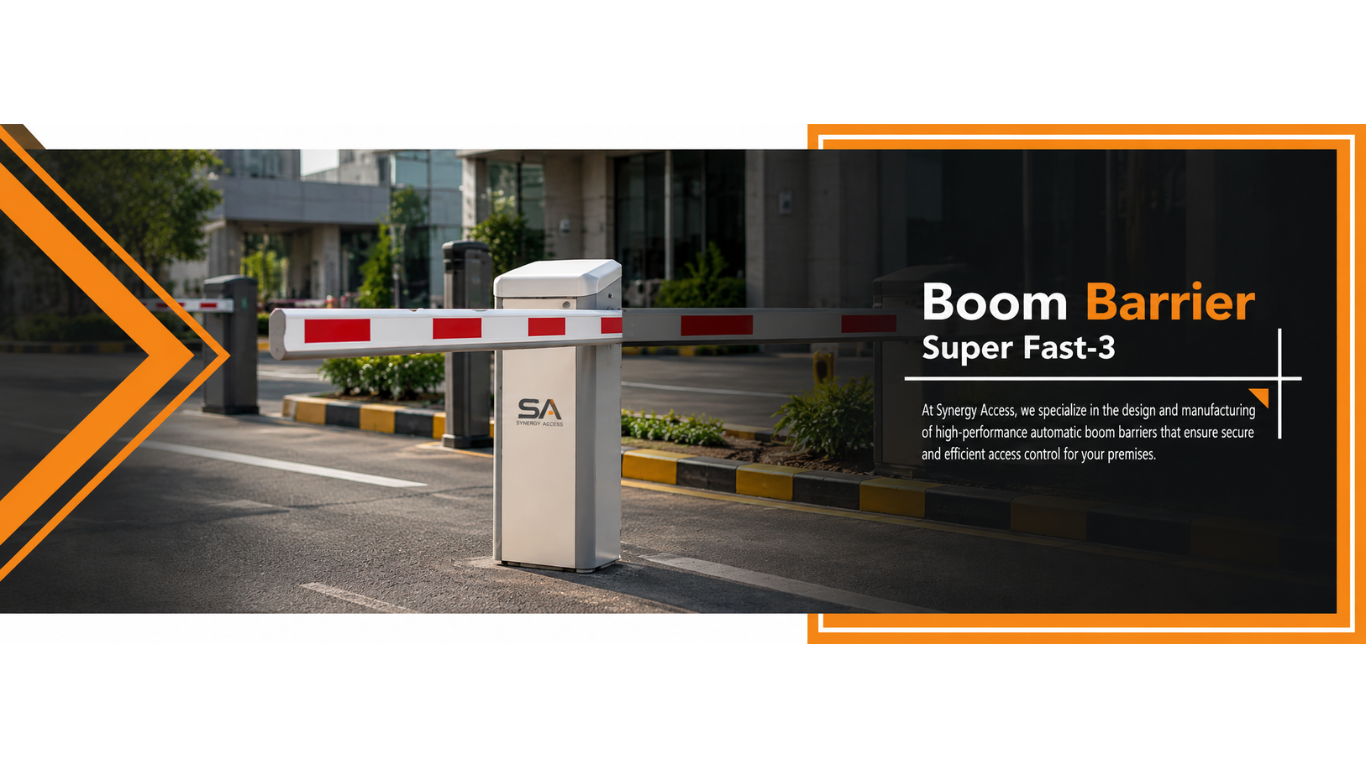
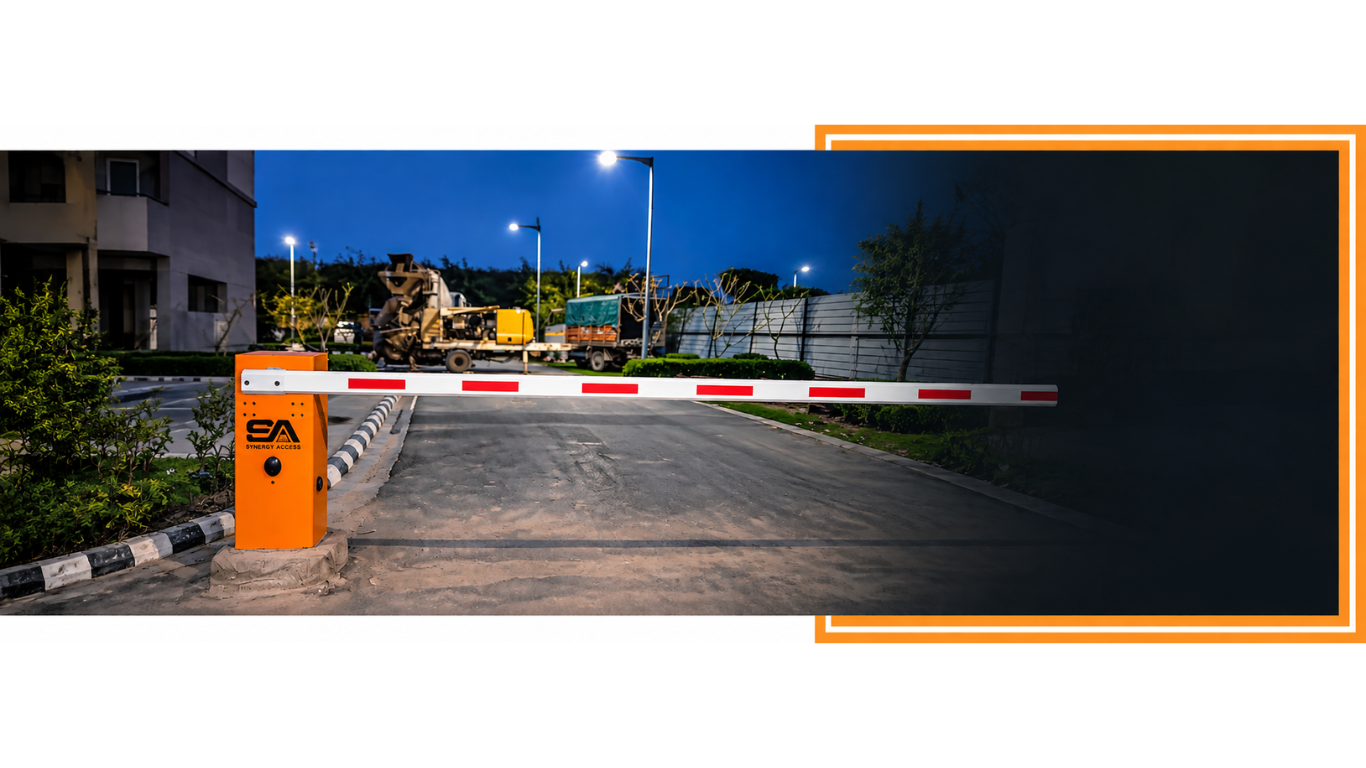
Initial commit

diff --git a/src/app/page.tsx b/src/app/page.tsx
@@ -14,10 +14,11 @@ const images = {
   boom1: '/assets/barrier.png',
   boom2: '/assets/barrier2.png',
   per: '/assets/peri.jpg',
+  Monitor: '/assets/Monitor.jpg',
   boom: '/assets/Boom-Barrier.jpeg',
   Pedest: '/assets/pades.jpg',
-  park: '/assets/parking.jpg',
-  Metal: '/assets/metal.jpg',
+  park: '/assets/Parking Management System-1.jpeg',
+  Metal: '/assets/Metal Dectector.jpg',
   Access: '/assets/control.jpg',
   Best: '/assets/boombarr.jpg',
   boom3: '/assets/boom3.jpeg',
@@ -63,7 +64,7 @@ const productCategories = [
     category: 'MONITOR',
     title: 'Perimeter Protection',
     description: 'Advanced monitoring systems for complete perimeter security with 24/7 surveillance capabilities.',
-    image: images.per,
+    image: images.Monitor,
     href: '/products/solutions',
   },
   {
@@ -79,7 +80,7 @@ const productCategories = [
     category: 'IMPROVE',
     title: 'Pedestrian Access Management',
     description: 'Smart turnstiles and access control for pedestrian areas with biometric integration.',
-    image: images.Pedest,
+    image: images.per,
     href: '/products/tripod-turnstile',
   },
   {
@@ -527,7 +528,11 @@ export default function Home() {
                     src={item.image}
                     alt={item.title}
                     fill
-                    className="object-cover transition-transform duration-500 group-hover:scale-110"
+                    className={item.title === 'Parking Management Systems'
+                      ? 'object-cover object-[center_60%] transition-transform duration-500 group-hover:scale-110'
+                      : item.title === 'Metal Detectors'
+                        ? 'object-cover object-top transition-transform duration-500 group-hover:scale-110'
+                        : 'object-cover transition-transform duration-500 group-hover:scale-110'}
                   />
                   <div className="absolute inset-0 bg-gradient-to-t from-gray-900/80 to-transparent"></div>
                 </div>

diff --git a/src/app/products/boom-barrier/page.tsx b/src/app/products/boom-barrier/page.tsx
@@ -243,13 +243,25 @@ export default function BoomBarrier() {
       <div className="relative w-full h-[180px] sm:h-[300px] md:h-[400px] lg:h-[500px] xl:h-[600px]">
         <Image
           src={banner}
-          alt="About Synergy Access Banner"
+          alt="Quick 5 boom barrier"
           fill
           priority
           className="object-cover object-center"
           sizes="(max-width: 640px) 100vw, (max-width: 1024px) 100vw, 100vw"
         />
-
+        <div className="absolute inset-0 bg-gradient-to-l from-black/80 via-black/50 to-transparent" />
+        <div className="absolute inset-y-0 right-[8%] flex max-w-[78%] flex-col justify-center text-white sm:right-[12%] sm:max-w-md md:right-[14%]">
+          <h1 className="text-2xl font-bold leading-none sm:text-4xl md:text-5xl lg:text-6xl">
+            Boom <span className="text-orange-500">Barrier</span>
+          </h1>
+          <h2 className="mt-1 text-lg font-bold leading-none sm:mt-2 sm:text-2xl md:text-3xl lg:text-4xl">
+            Quick 5
+          </h2>
+          <div className="mt-3 h-0.5 w-full bg-white sm:mt-5 md:h-1" />
+          <p className="mt-3 max-w-sm text-[9px] leading-relaxed text-gray-100 sm:mt-5 sm:text-xs md:text-sm">
+            At Synergy Access, we specialize in the design and manufacturing of high-performance automatic boom barriers that ensure secure and efficient access control for your premises.
+          </p>
+        </div>
       </div>
 
       {/* Main Grid */}
